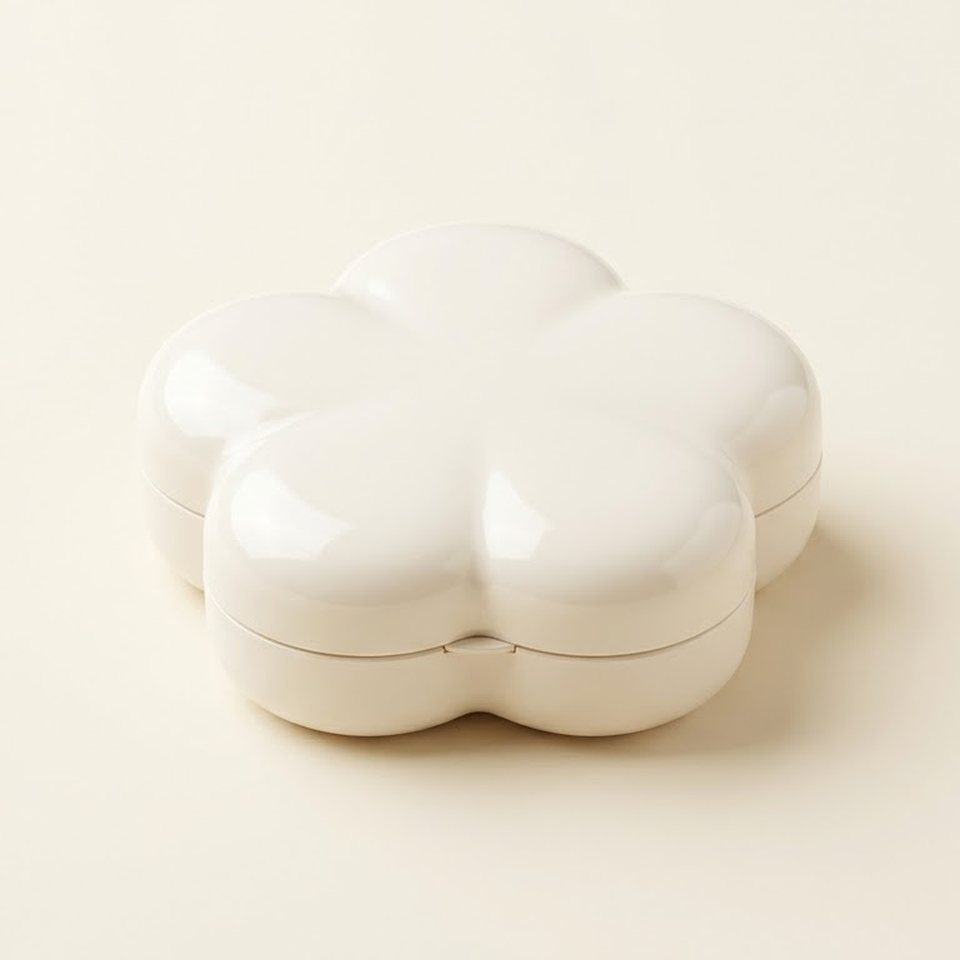
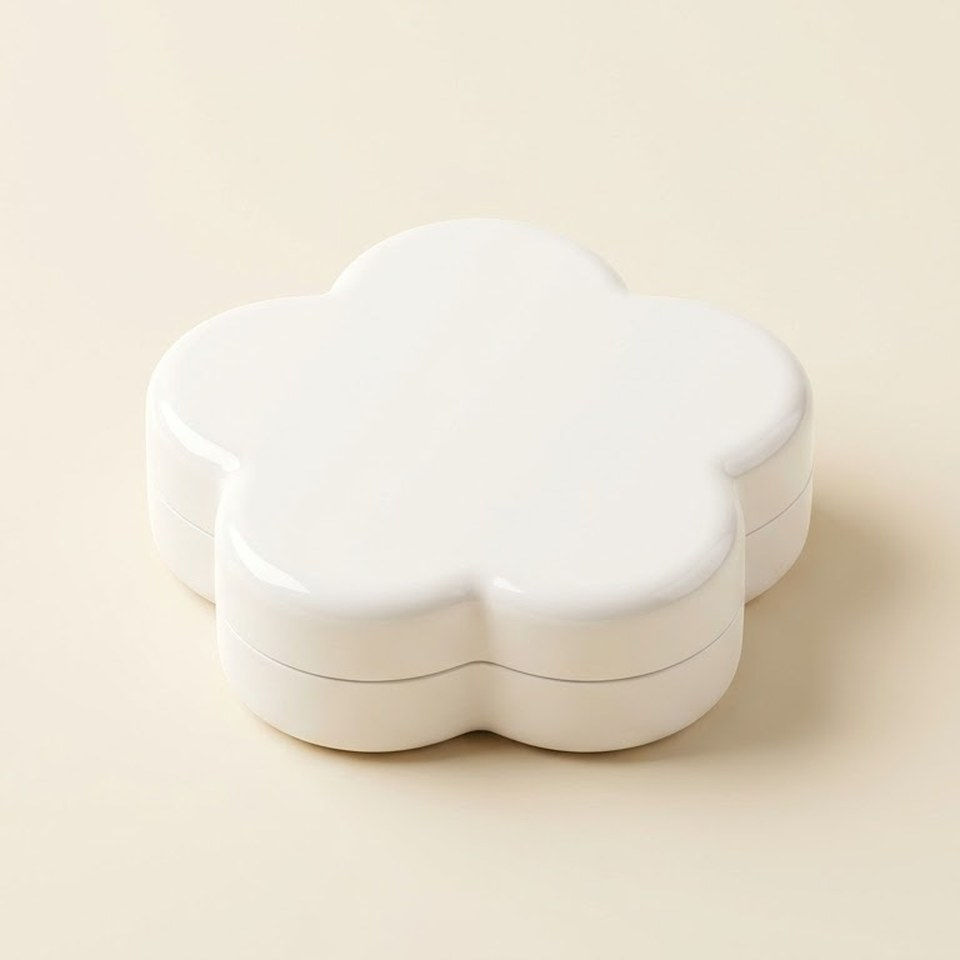
Add cubic caution, address hints and unify notice tone
- Fix flower detail mockup to match the flat-lid card image
- Show a one-time cubic notice in P03 and add a cubic caution to P02, P04 and the terms
- Add placeholders to the P05 address fields
- Break the shipping period line and keep "5~7일 이내" together
- Use 해요체 for all on-screen notices (terms and privacy stay formal)
- Sync docs and downloaded design files

diff --git a/src/pages/CustomizePage.jsx b/src/pages/CustomizePage.jsx
@@ -12,6 +12,7 @@ import {
   IconHand,
   IconHeart,
   IconHelp,
+  IconInfo,
   IconMinus,
   IconMore,
   IconPalette,
@@ -25,6 +26,7 @@ import {
 import {
   CASE_COLORS,
   CASE_TYPES,
+  CUBIC_NOTICE,
   ENGRAVE_MAX,
   ENGRAVE_STYLES,
   ENGRAVE_PRICE,
@@ -144,6 +146,8 @@ export default function CustomizePage() {
   const [hint, setHint] = useState('hidden'); // hidden | show | fade
   const [ghost, setGhost] = useState(null); // 패널에서 끌고 있는 스티커
   const hintShownRef = useRef(false);
+  const [cubicNote, setCubicNote] = useState('hidden'); // hidden | show | fade — 큐빅 패널을 처음 열 때 "떨어질 수 있어요" 안내
+  const cubicNoteShownRef = useRef(false);
 
   const designRef = useRef(design);
   designRef.current = design;
@@ -589,7 +593,24 @@ export default function CustomizePage() {
       hintShownRef.current = true;
       setHint('show');
     }
+    // 큐빅 패널을 처음 열면 "떨어질 수 있어요" 안내를 조금 더 길게 보여줌 (스티커를 붙여도 바로 사라지지 않음)
+    if (opening && key === 'cubic' && !cubicNoteShownRef.current) {
+      cubicNoteShownRef.current = true;
+      setCubicNote('show');
+    }
   };
+
+  useEffect(() => {
+    if (cubicNote === 'show') {
+      const t = setTimeout(() => setCubicNote('fade'), 4000);
+      return () => clearTimeout(t);
+    }
+    if (cubicNote === 'fade') {
+      const t = setTimeout(() => setCubicNote('hidden'), 600);
+      return () => clearTimeout(t);
+    }
+    return undefined;
+  }, [cubicNote]);
 
   useEffect(() => {
     if (hint === 'show') {
@@ -818,6 +839,20 @@ export default function CustomizePage() {
                     <IconHand size={18} />
                     드래그해주세요
                     <span className="cz-hint-touch">눌러서 붙이고, 끌어서 옮겨요</span>
+                  </div>
+                )}
+
+                {cubicNote !== 'hidden' && (
+                  <div
+                    className={`cz-hint cz-cubic-note${hint !== 'hidden' ? ' is-below' : ''}${cubicNote === 'fade' ? ' is-fade' : ''}`}
+                    role="status"
+                  >
+                    <IconInfo size={18} />
+                    <span>
+                      {CUBIC_NOTICE[0]}
+                      <br />
+                      {CUBIC_NOTICE[1]}
+                    </span>
                   </div>
                 )}
               </div>

diff --git a/src/pages/ConfirmPage.jsx b/src/pages/ConfirmPage.jsx
@@ -5,9 +5,9 @@ import { useNavigate, useRouter } from '../router';
 import { useShop } from '../store/ShopContext';
 import { useUI } from '../components/Dialogs';
 import CaseView from '../components/CaseView';
-import { BottomBar, Footer, NavBar } from '../components/Layout';
+import { BottomBar, Footer, NavBar, ShippingPeriod } from '../components/Layout';
 import { IconExpand, IconInfo } from '../components/Icons';
-import { SHIPPING_INFO, addOnLines, designPrice, fmtPrice, getCaseType } from '../data/catalog';
+import { CUBIC_NOTICE, SHIPPING_INFO, addOnLines, designPrice, fmtPrice, getCaseType } from '../data/catalog';
 import { colorOf, decorationSummary, typeName } from '../utils/summary';
 import { isMobile } from '../utils/device';
 import './OrderFlow.css';
@@ -122,6 +122,8 @@ export default function ConfirmPage() {
           <div className="notice-body">
             <strong>주문 제작 상품 안내</strong>
             <span>꾸민 디자인은 케이스에 인쇄되고, 큐빅은 실제로 붙여 드려요</span>
+            {/* 위 문장처럼 끝 마침표 없이 */}
+            <span>{CUBIC_NOTICE[1].replace(/\.$/, '')}</span>
             <span>{SHIPPING_INFO.refund}</span>
           </div>
         </div>
@@ -133,7 +135,7 @@ export default function ConfirmPage() {
           <strong className="period-title">제작·배송 기간</strong>
           {/* 받은 문구가 제작과 배송을 합친 한 문장이라 한 줄로 보여줌 */}
           <span className="label">제작·배송</span>
-          <span className="period-value">{SHIPPING_INFO.period}</span>
+          <span className="period-value"><ShippingPeriod /></span>
           <span className="label">배송비</span>
           <span className="period-value">{SHIPPING_INFO.fee}</span>
         </div>

diff --git a/src/data/catalog.js b/src/data/catalog.js
@@ -286,12 +286,25 @@ export const addOnLines = (design) => {
 export const SHIPPING_FEE = 0;
 export const shippingFor = (subtotal) => (subtotal == null ? null : SHIPPING_FEE);
 
+// 제작·배송 기간: 화면에서는 "(주말 및 공휴일 제외)"를 다음 줄로 내리고, "5~7일 이내"는 중간에서 끊기지 않게 함 (ShippingPeriod)
+export const SHIPPING_PERIOD = {
+  before: '주문 확인 후 약',
+  range: '5~7일 이내',
+  after: '배송해 드려요.',
+  note: '(주말 및 공휴일 제외)',
+};
+
 // 배송·교환 안내 문구
 export const SHIPPING_INFO = {
-  period: '주문 확인 후 약 5~7일 이내 배송됩니다. (주말 및 공휴일 제외)',
+  period: `${SHIPPING_PERIOD.before} ${SHIPPING_PERIOD.range} ${SHIPPING_PERIOD.after} ${SHIPPING_PERIOD.note}`,
   fee: '무료 (전 상품 무료배송)',
-  refund: '본 상품은 주문 제작 상품으로, 고객님의 단순 변심에 의한 교환 및 환불이 제한될 수 있습니다.',
+  refund: '직접 꾸민 주문 제작 상품이라 단순 변심에 의한 교환·환불이 어려울 수 있어요.',
+  // P02 유의사항
+  caution: '큐빅은 하나하나 손으로 붙여서 강한 충격이나 마찰에는 떨어질 수 있어요.',
 };
+
+// 큐빅 안내: 실제 아크릴 큐빅을 손으로 붙이므로 떨어질 수 있음을 알림 (P03 큐빅 패널 첫 안내, P04 주문 제작 상품 안내 — P02 유의사항은 SHIPPING_INFO.caution)
+export const CUBIC_NOTICE = ['큐빅은 하나하나 손으로 붙여 드려요.', '강한 충격이나 마찰에는 떨어질 수 있어요.'];
 
 // 예상 배송일: 주문일에서 주말을 빼고 5~7일 뒤 (공휴일은 계산하지 않음) — 예: "11.24(화) ~ 11.26(목)"
 const WEEKDAY = ['일', '월', '화', '수', '목', '금', '토'];

diff --git a/docs/html/p04-confirm.html b/docs/html/p04-confirm.html
@@ -87,7 +87,8 @@ a{color:#3D2E28}a:hover{color:#C4513F}
       <div style="display: flex; flex-direction: column; gap: 6px; font-size: 15px; line-height: 1.6">
         <strong style="font-size: 16px">주문 제작 상품 안내</strong>
         <span>꾸민 디자인은 케이스에 인쇄되고, 큐빅은 실제로 붙여 드려요</span>
-        <span>본 상품은 주문 제작 상품으로, 고객님의 단순 변심에 의한 교환 및 환불이 제한될 수 있습니다.</span>
+        <span>강한 충격이나 마찰에는 떨어질 수 있어요</span>
+        <span>직접 꾸민 주문 제작 상품이라 단순 변심에 의한 교환·환불이 어려울 수 있어요.</span>
       </div>
     </div>
   </section>
@@ -96,7 +97,7 @@ a{color:#3D2E28}a:hover{color:#C4513F}
   <section style="padding: 16px 32px 96px">
     <div style="max-width: 1200px; margin: 0 auto; background: #FFFFFF; border: 1px solid #EADFD5; border-radius: 20px; padding: 24px 28px; box-sizing: border-box; display: grid; grid-template-columns: 160px 1fr; row-gap: 12px; font-size: 15px; line-height: 1.6">
       <strong style="grid-column: 1 / -1; font-size: 16px; margin-bottom: 4px">제작·배송 기간</strong>
-      <span style="color: #6F5D54">제작·배송</span><span>주문 확인 후 약 5~7일 이내 배송됩니다. (주말 및 공휴일 제외)</span>
+      <span style="color: #6F5D54">제작·배송</span><span>주문 확인 후 약 <span style="white-space: nowrap">5~7일 이내</span> 배송해 드려요.<br>(주말 및 공휴일 제외)</span>
       <span style="color: #6F5D54">배송비</span><span>무료 (전 상품 무료배송)</span>
     </div>
   </section>

diff --git a/docs/html/p02-detail.html b/docs/html/p02-detail.html
@@ -120,9 +120,10 @@ a{color:#3D2E28}a:hover{color:#C4513F}
     <div style="max-width: 1200px; margin: 0 auto; display: flex; flex-direction: column; gap: 24px">
       <h2 style="margin: 0; font-size: 24px; font-weight: 800">배송·교환 안내</h2>
       <div style="background: #FFFFFF; border: 1px solid #EADFD5; border-radius: 20px; padding: 28px 32px; display: grid; grid-template-columns: 160px 1fr; row-gap: 18px; font-size: 15px; line-height: 1.6">
-        <span style="color: #6F5D54; font-weight: 600">제작 및 배송 안내</span><span>주문 확인 후 약 5~7일 이내 배송됩니다. (주말 및 공휴일 제외)</span>
+        <span style="color: #6F5D54; font-weight: 600">제작 및 배송 안내</span><span>주문 확인 후 약 <span style="white-space: nowrap">5~7일 이내</span> 배송해 드려요.<br>(주말 및 공휴일 제외)</span>
         <span style="color: #6F5D54; font-weight: 600">배송비</span><span>무료 (전 상품 무료배송)</span>
-        <span style="color: #6F5D54; font-weight: 600">교환 및 환불 안내</span><span>본 상품은 주문 제작 상품으로, 고객님의 단순 변심에 의한 교환 및 환불이 제한될 수 있습니다.</span>
+        <span style="color: #6F5D54; font-weight: 600">교환 및 환불 안내</span><span>직접 꾸민 주문 제작 상품이라 단순 변심에 의한 교환·환불이 어려울 수 있어요.</span>
+        <span style="color: #6F5D54; font-weight: 600">유의사항</span><span>큐빅은 하나하나 손으로 붙여서 강한 충격이나 마찰에는 떨어질 수 있어요.</span>
       </div>
     </div>
   </section>

diff --git a/docs/html/p05-order.html b/docs/html/p05-order.html
@@ -58,11 +58,11 @@ input::placeholder{color:#A39385}
       </div>
       <div style="display: flex; flex-direction: column; gap: 8px">
         <label for="addr" style="font-size: 15px; font-weight: 600">주소 <span style="color: #C4513F">*</span></label>
-        <input id="addr" type="text" placeholder="주소" style="height: 52px; padding: 0 18px; border-radius: 14px; border: 1.5px solid #E3D3C7; background: #FFFFFF; font: inherit; font-size: 15px; color: #3D2E28; outline: none">
+        <input id="addr" type="text" placeholder="도로명, 건물명, 번지 입력" style="height: 52px; padding: 0 18px; border-radius: 14px; border: 1.5px solid #E3D3C7; background: #FFFFFF; font: inherit; font-size: 15px; color: #3D2E28; outline: none">
       </div>
       <div style="display: flex; flex-direction: column; gap: 8px">
         <label for="addr2" style="font-size: 15px; font-weight: 600">상세 주소 <span style="color: #C4513F">*</span></label>
-        <input id="addr2" type="text" placeholder="상세 주소" style="height: 52px; padding: 0 18px; border-radius: 14px; border: 1.5px solid #E3D3C7; background: #FFFFFF; font: inherit; font-size: 15px; color: #3D2E28; outline: none">
+        <input id="addr2" type="text" placeholder="동·호수를 입력해 주세요" style="height: 52px; padding: 0 18px; border-radius: 14px; border: 1.5px solid #E3D3C7; background: #FFFFFF; font: inherit; font-size: 15px; color: #3D2E28; outline: none">
       </div>
     </section>
 

diff --git a/docs/html/p03-customize.html b/docs/html/p03-customize.html
@@ -77,6 +77,12 @@ a{color:#3D2E28}a:hover{color:#C4513F}
             드래그해주세요
           </div>
 
+          <!-- 큐빅 안내: 큐빅 패널을 처음 열 때 드래그 안내 아래에 4초 -->
+          <div role="status" style="position: absolute; top: 148px; left: 50%; transform: translateX(-50%); display: flex; align-items: flex-start; gap: 8px; padding: 10px 16px; border-radius: 16px; background: rgba(61, 46, 40, 0.82); color: #FFFFFF; font-size: 14px; font-weight: 600; line-height: 1.5; white-space: nowrap">
+            <svg width="18" height="18" viewBox="0 0 24 24" fill="none" stroke="currentColor" stroke-width="1.8" stroke-linecap="round" stroke-linejoin="round" aria-hidden="true" style="flex: none; margin-top: 1px"><circle cx="12" cy="12" r="9"></circle><path d="M12 8v5M12 16h.01"></path></svg>
+            <span>큐빅은 하나하나 손으로 붙여 드려요.<br>강한 충격이나 마찰에는 떨어질 수 있어요.</span>
+          </div>
+
           <!-- 선택 상자 예시 (각인 선택 상태) -->
           <div style="position: absolute; top: 236px; left: 50%; transform: translateX(-50%); padding: 10px 18px; border: 1.5px solid #C4513F; border-radius: 6px; background: rgba(255, 255, 255, 0.35)">
             <span style="font-family: 'Noto Serif KR', serif; font-size: 26px; font-weight: 500; letter-spacing: 0.04em; color: #A9824F; white-space: nowrap">각인 입력</span>

diff --git a/src/pages/CompletePage.jsx b/src/pages/CompletePage.jsx
@@ -4,9 +4,9 @@ import { useBlocker, useNavigate } from '../router';
 import { useShop } from '../store/ShopContext';
 import { useUI } from '../components/Dialogs';
 import CaseView from '../components/CaseView';
-import { Footer, MAIN_MENU, NavBar } from '../components/Layout';
+import { Footer, MAIN_MENU, NavBar, ShippingPeriod } from '../components/Layout';
 import { IconCheck, IconDownload, Sparkle } from '../components/Icons';
-import { SHIPPING_INFO, expectedDelivery, fmtPrice } from '../data/catalog';
+import { expectedDelivery, fmtPrice } from '../data/catalog';
 import { downloadDesign } from '../utils/exportImage';
 import { designToDataURL } from '../utils/exportImage';
 import { isMobile } from '../utils/device';
@@ -121,7 +121,7 @@ export default function CompletePage() {
         {/* P06-S04 배송·문의 안내 */}
         <section className="complete-notice">
           <h2>배송·문의 안내</h2>
-          <span>{SHIPPING_INFO.period}</span>
+          <span><ShippingPeriod /></span>
           <span>주문 내용은 입력한 연락처로 문자로 보내드려요</span>
           <span>주문번호 또는 이름과 연락처로 고객센터에 문의해 주세요</span>
         </section>

diff --git a/src/pages/CustomizePage.css b/src/pages/CustomizePage.css
@@ -264,6 +264,24 @@
   opacity: 0;
 }
 
+/* 큐빅 안내: 두 줄이라 알약 대신 둥근 상자, "드래그해주세요"가 함께 보이면 그 아래에 놓음 */
+.cz-cubic-note {
+  align-items: flex-start;
+  border-radius: 16px;
+  font-size: 14px;
+  line-height: 1.5;
+  text-align: left;
+}
+
+.cz-cubic-note svg {
+  flex: none;
+  margin-top: 1px;
+}
+
+.cz-cubic-note.is-below {
+  top: 148px;
+}
+
 /* 오른쪽 세로 도구 버튼 */
 .cz-tools {
   position: absolute;
@@ -740,6 +758,16 @@
     display: inline;
     font-size: 14px;
   }
+
+  /* 큐빅 안내는 터치 기기에서도 글자를 그대로 보여줌 (위 .cz-hint font-size: 0 되돌림) */
+  .cz-cubic-note {
+    font-size: 14px;
+    gap: 8px;
+  }
+
+  .cz-cubic-note svg {
+    margin-right: 0;
+  }
 }
 
 /* ===== 반응형 — P03 꾸미기 (모바일: 폭 1024px 이하 터치 기기) — 데스크탑에는 적용되지 않음 =====
@@ -923,5 +951,10 @@
   .cz-hint {
     transform: translateX(-50%) scale(calc(1 / var(--cz-fit, 1)));
     transform-origin: top center;
+  }
+
+  /* 위 안내가 원래 크기로 커진 만큼 아래로 내림 */
+  .cz-cubic-note.is-below {
+    top: calc(96px + 52px / var(--cz-fit, 1));
   }
 }

diff --git a/src/pages/DetailPage.jsx b/src/pages/DetailPage.jsx
@@ -2,7 +2,7 @@
 import { useEffect, useRef, useState } from 'react';
 import { useNavigate, useQuery, useRouter } from '../router';
 import { newDesign, useShop } from '../store/ShopContext';
-import { BottomBar, Footer, NavBar } from '../components/Layout';
+import { BottomBar, Footer, NavBar, ShippingPeriod } from '../components/Layout';
 import { IconChevronRight, Sparkle } from '../components/Icons';
 import {
   COMPAT_HINT,
@@ -167,11 +167,13 @@ export default function DetailPage() {
           <h2 className="detail-h2">배송·교환 안내</h2>
           <div className="box info-grid detail-box">
             <span className="label">제작 및 배송 안내</span>
-            <span>{SHIPPING_INFO.period}</span>
+            <span><ShippingPeriod /></span>
             <span className="label">배송비</span>
             <span>{SHIPPING_INFO.fee}</span>
             <span className="label">교환 및 환불 안내</span>
             <span>{SHIPPING_INFO.refund}</span>
+            <span className="label">유의사항</span>
+            <span>{SHIPPING_INFO.caution}</span>
           </div>
         </div>
       </section>

diff --git a/docs/html/m03-terms.html b/docs/html/m03-terms.html
@@ -34,6 +34,7 @@ a{color:#3D2E28}a:hover{color:#C4513F}
     <strong style="display: block; margin-top: 14px; font-size: 15px; color: #3D2E28">제4조 (상품과 주문 제작)</strong>
     <span style="display: block">상품은 이용자가 고른 케이스 종류·색과 직접 붙인 스티커·큐빅·각인으로 만드는 주문 제작 상품입니다.</span>
     <span style="display: block">꾸민 디자인은 케이스에 인쇄되고, 큐빅은 실제 아크릴 큐빅을 붙이며, 글자는 각인합니다.</span>
+    <span style="display: block">큐빅은 하나하나 손으로 붙이므로 강한 충격이나 마찰에는 떨어질 수 있습니다.</span>
     <span style="display: block">화면의 색과 실제 제품의 색은 모니터·휴대폰 화면에 따라 조금 다를 수 있습니다.</span>
     <strong style="display: block; margin-top: 14px; font-size: 15px; color: #3D2E28">제5조 (가격과 추가 요금)</strong>
     <span style="display: block">케이스 가격은 종류마다 다르며 상품 상세 화면에 표시합니다.</span>

diff --git a/src/components/Layout.jsx b/src/components/Layout.jsx
@@ -3,7 +3,7 @@ import { useEffect, useRef, useState } from 'react';
 import { useNavigate, withBase } from '../router';
 import { hasDecoration, useShop } from '../store/ShopContext';
 import { useUI } from './Dialogs';
-import { COMPANY } from '../data/catalog';
+import { COMPANY, SHIPPING_PERIOD } from '../data/catalog';
 import { IconBack, IconBag, IconClose, IconMenu } from './Icons';
 import './Layout.css';
 
@@ -182,5 +182,18 @@ export function BottomBar({ children }) {
     <div className="bottom-bar">
       <div className="bottom-bar-inner">{children}</div>
     </div>
+  );
+}
+
+// 제작·배송 기간 (P02 배송·교환 안내, P04 제작·배송 기간, P06 배송·문의 안내)
+// "(주말 및 공휴일 제외)"는 다음 줄로, "5~7일 이내"는 좁은 화면에서도 중간에서 끊기지 않게
+export function ShippingPeriod() {
+  const { before, range, after, note } = SHIPPING_PERIOD;
+  return (
+    <>
+      {before} <span style={{ whiteSpace: 'nowrap' }}>{range}</span> {after}
+      <br />
+      {note}
+    </>
   );
 }
